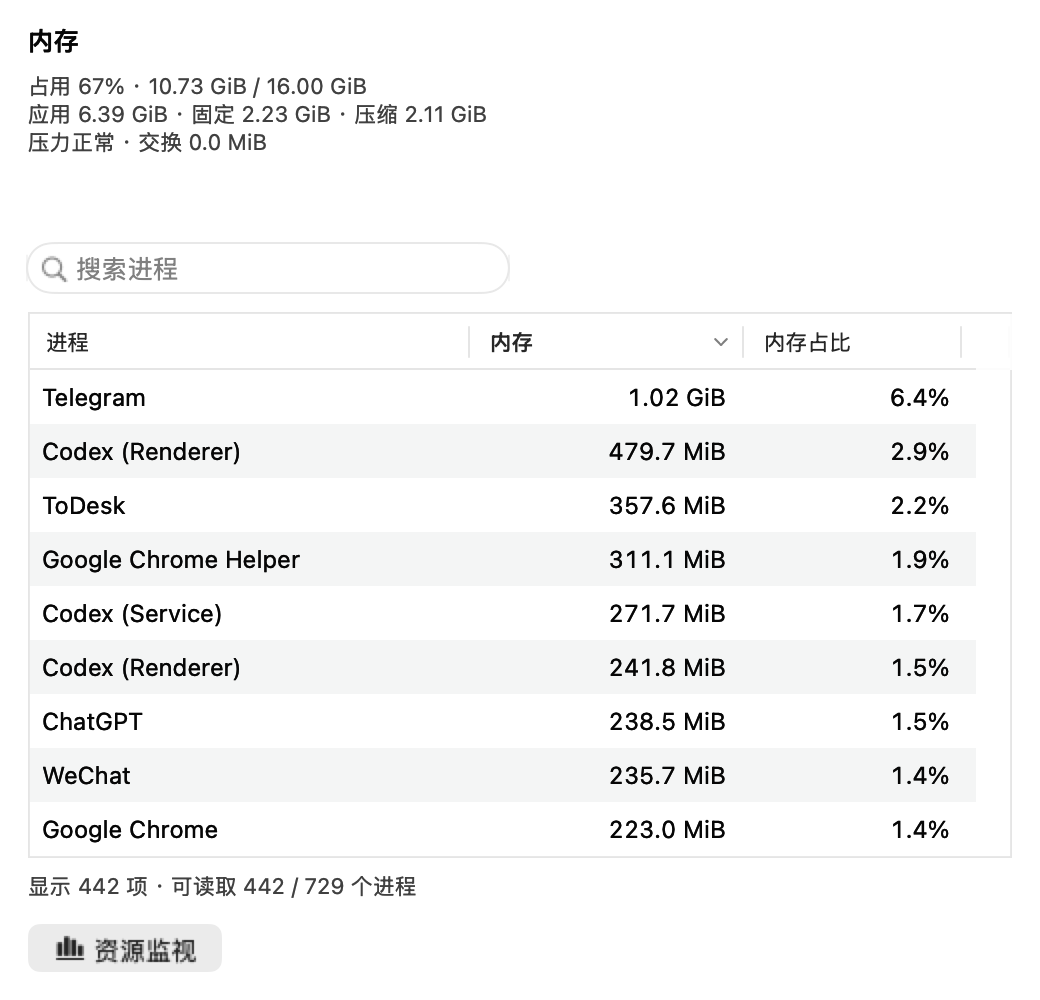
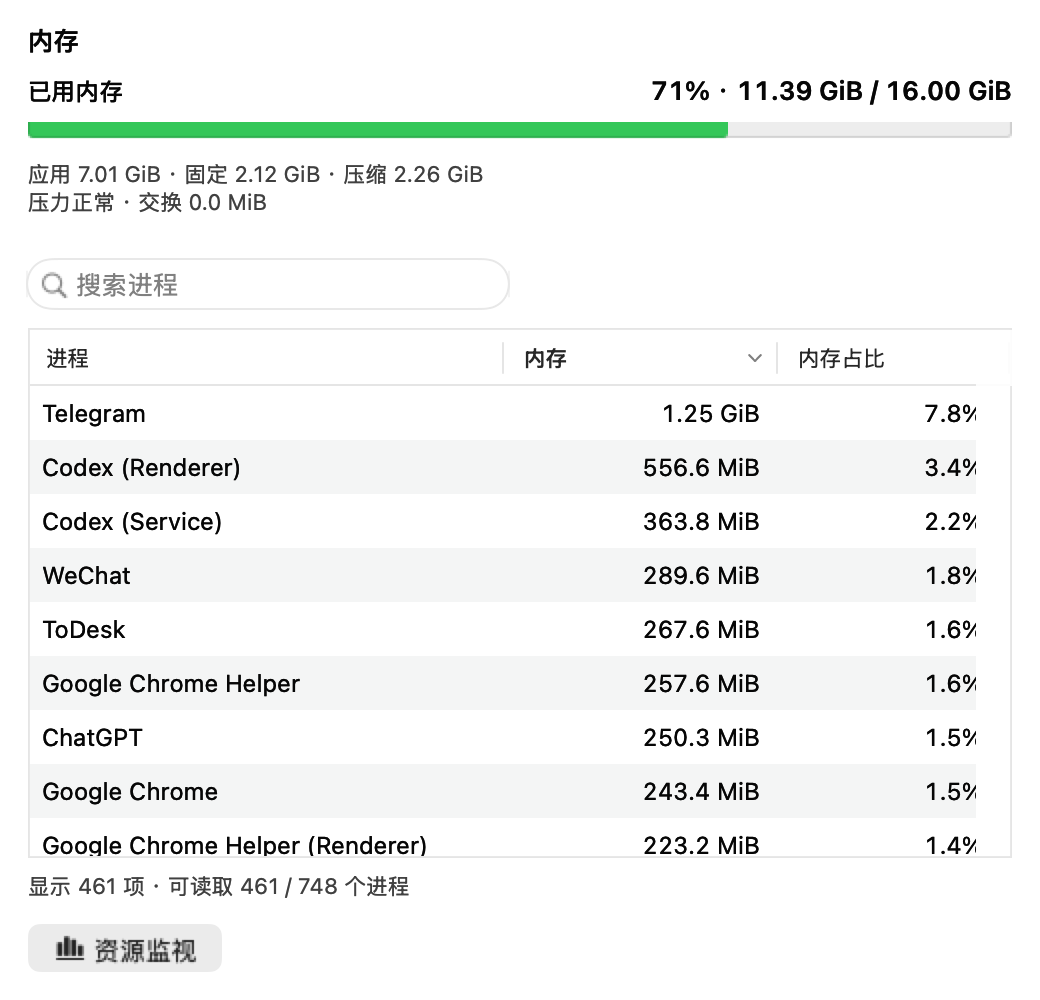
Add memory disk battery and watt gauges for v3.4.0

diff --git a/ResourceDetailsView.swift b/ResourceDetailsView.swift
@@ -12,6 +12,150 @@ func memorySize(_ bytes: Double) -> String {
     bytes >= 1_073_741_824 ? String(format: "%.2f GiB", bytes / 1_073_741_824) : String(format: "%.1f MiB", bytes / 1_048_576)
 }
 
+struct PowerScale {
+    private(set) var maximum = 20.0
+    mutating func include(_ watts: Double?) {
+        guard let watts, watts.isFinite, watts >= 0 else { return }
+        // Only expand the scale so a falling reading never makes the bar look fuller.
+        maximum = max(maximum, [20, 50, 100, 200, 500, 1000].first { $0 >= watts } ?? ceil(watts / 1000) * 1000)
+    }
+}
+
+final class MetricBar: NSLevelIndicator {
+    init(color: NSColor) {
+        super.init(frame: .zero)
+        levelIndicatorStyle = .continuousCapacity; isEditable = false; drawsTieredCapacityLevels = false
+        fillColor = color; warningFillColor = color; criticalFillColor = color
+        update(nil)
+    }
+    required init?(coder: NSCoder) { fatalError() }
+    func update(_ reading: Double?, maximum: Double = 100, color: NSColor? = nil, description: String = "暂无数据") {
+        maxValue = maximum.isFinite && maximum > 0 ? maximum : 100
+        minValue = 0; warningValue = maxValue; criticalValue = maxValue
+        if let color { fillColor = color; warningFillColor = color; criticalFillColor = color }
+        let valid = reading.flatMap { $0.isFinite && $0 >= 0 ? $0 : nil }
+        isEnabled = valid != nil; doubleValue = min(maxValue, valid ?? 0)
+        toolTip = description; setAccessibilityValue(description)
+    }
+}
+
+final class MetricGaugeView: NSView {
+    let bar: MetricBar
+    private let value = NSTextField(labelWithString: "--")
+    private let maximumLabel = NSTextField(labelWithString: "")
+    private let showsScale: Bool
+    init(title: String, color: NSColor, showsScale: Bool = false) {
+        self.showsScale = showsScale; bar = MetricBar(color: color)
+        super.init(frame: .zero)
+        let label = NSTextField(labelWithString: title)
+        label.font = .systemFont(ofSize: 12, weight: .medium)
+        value.font = .monospacedDigitSystemFont(ofSize: 13, weight: .semibold); value.alignment = .right
+        bar.setAccessibilityLabel(title)
+        for view in [label, value, bar] { view.translatesAutoresizingMaskIntoConstraints = false; addSubview(view) }
+        NSLayoutConstraint.activate([
+            heightAnchor.constraint(equalToConstant: showsScale ? 52 : 38),
+            label.leadingAnchor.constraint(equalTo: leadingAnchor), label.topAnchor.constraint(equalTo: topAnchor),
+            value.trailingAnchor.constraint(equalTo: trailingAnchor), value.firstBaselineAnchor.constraint(equalTo: label.firstBaselineAnchor),
+            value.leadingAnchor.constraint(greaterThanOrEqualTo: label.trailingAnchor, constant: 12),
+            bar.leadingAnchor.constraint(equalTo: leadingAnchor), bar.trailingAnchor.constraint(equalTo: trailingAnchor),
+            bar.topAnchor.constraint(equalTo: topAnchor, constant: 23), bar.heightAnchor.constraint(equalToConstant: 8)
+        ])
+        if showsScale {
+            let minimumLabel = NSTextField(labelWithString: "0 W")
+            maximumLabel.alignment = .right
+            for field in [minimumLabel, maximumLabel] {
+                field.font = .monospacedDigitSystemFont(ofSize: 10, weight: .regular); field.textColor = .secondaryLabelColor
+                field.translatesAutoresizingMaskIntoConstraints = false; addSubview(field)
+                field.topAnchor.constraint(equalTo: bar.bottomAnchor, constant: 3).isActive = true
+            }
+            minimumLabel.leadingAnchor.constraint(equalTo: leadingAnchor).isActive = true
+            maximumLabel.trailingAnchor.constraint(equalTo: trailingAnchor).isActive = true
+        }
+    }
+    required init?(coder: NSCoder) { fatalError() }
+    func update(_ reading: Double?, text: String, maximum: Double = 100, color: NSColor? = nil) {
+        value.stringValue = text
+        bar.update(reading, maximum: maximum, color: color, description: text + (showsScale ? String(format: "，刻度 0 至 %.0f W", maximum) : ""))
+        if showsScale { maximumLabel.stringValue = String(format: "%.0f W", maximum) }
+    }
+}
+
+final class MetricSummaryView: NSView {
+    let primary: MetricGaugeView
+    let power: MetricGaugeView?
+    private let detail = NSTextField(wrappingLabelWithString: "等待采样")
+    private let kind: StatusDetail
+    private let compact: Bool
+    private var powerScale = PowerScale()
+    var preferredHeight: CGFloat {
+        switch kind { case .memory: return 82; case .disk: return 74; default: return compact ? 148 : 102 }
+    }
+    init(kind: StatusDetail, compact: Bool = false) {
+        self.kind = kind; self.compact = compact
+        switch kind {
+        case .memory: primary = MetricGaugeView(title: "已用内存", color: .systemGreen)
+        case .disk: primary = MetricGaugeView(title: "已用空间", color: .systemOrange)
+        default: primary = MetricGaugeView(title: "电池电量", color: .systemTeal)
+        }
+        power = kind == .power || kind == .battery ? MetricGaugeView(title: "供电功率", color: .systemPink, showsScale: true) : nil
+        super.init(frame: .zero)
+        detail.font = .systemFont(ofSize: 11); detail.textColor = .secondaryLabelColor
+        for view in [primary, detail] { view.translatesAutoresizingMaskIntoConstraints = false; addSubview(view) }
+        NSLayoutConstraint.activate([
+            primary.leadingAnchor.constraint(equalTo: leadingAnchor), primary.topAnchor.constraint(equalTo: topAnchor),
+            detail.leadingAnchor.constraint(equalTo: leadingAnchor), detail.trailingAnchor.constraint(equalTo: trailingAnchor), detail.bottomAnchor.constraint(equalTo: bottomAnchor)
+        ])
+        if let power {
+            power.translatesAutoresizingMaskIntoConstraints = false; addSubview(power)
+            power.trailingAnchor.constraint(equalTo: trailingAnchor).isActive = true
+            if compact {
+                primary.trailingAnchor.constraint(equalTo: trailingAnchor).isActive = true
+                power.leadingAnchor.constraint(equalTo: leadingAnchor).isActive = true
+                power.topAnchor.constraint(equalTo: primary.bottomAnchor, constant: 6).isActive = true
+            } else {
+                primary.widthAnchor.constraint(equalTo: widthAnchor, multiplier: 0.5, constant: -12).isActive = true
+                power.leadingAnchor.constraint(equalTo: primary.trailingAnchor, constant: 24).isActive = true
+                power.topAnchor.constraint(equalTo: topAnchor).isActive = true
+            }
+            detail.topAnchor.constraint(equalTo: power.bottomAnchor, constant: 6).isActive = true
+        } else {
+            primary.trailingAnchor.constraint(equalTo: trailingAnchor).isActive = true
+            detail.topAnchor.constraint(equalTo: primary.bottomAnchor, constant: 4).isActive = true
+        }
+        update(nil, details: nil)
+    }
+    required init?(coder: NSCoder) { fatalError() }
+    func update(_ snapshot: MetricsSnapshot?, details: DetailedSnapshot?) {
+        switch kind {
+        case .memory:
+            if let memory = snapshot?.memory, memory.total > 0 {
+                let color: NSColor = memory.pressure == 4 ? .systemRed : (memory.pressure == 2 ? .systemOrange : .systemGreen)
+                primary.update(memory.percent, text: "\(MenuBarText.percent(memory.percent)) · \(memorySize(memory.occupied)) / \(memorySize(memory.total))", color: color)
+                detail.stringValue = "应用 \(memory.application.map(memorySize) ?? "--") · 固定 \(memory.wired.map(memorySize) ?? "--") · 压缩 \(memorySize(memory.compressed))\n\(memory.pressureLabel) · 交换 \(memory.swap.map(memorySize) ?? "--")"
+            } else {
+                primary.update(nil, text: "--"); detail.stringValue = "等待内存采样"
+            }
+        case .disk:
+            if let disk = snapshot?.disk, disk.total > 0 {
+                primary.update(disk.percent, text: MenuBarText.percent(disk.percent))
+                detail.stringValue = String(format: "已用 %.1f GB / 总容量 %.1f GB · 可用 %.1f GB", disk.used / 1e9, disk.total / 1e9, disk.free / 1e9)
+            } else {
+                primary.update(nil, text: "--"); detail.stringValue = "等待磁盘采样"
+            }
+        default:
+            let battery = details?.battery
+            primary.update(battery?.percent, text: battery.map { MenuBarText.percent($0.percent) } ?? (details == nil ? "--" : "无电池"), color: (battery?.percent ?? 100) <= 20 ? .systemRed : .systemTeal)
+            let watts = snapshot.flatMap(MenuBarText.freshPower)?.watts
+            powerScale.include(watts)
+            power?.update(watts, text: watts.map { String(format: "%.1f W", $0) } ?? "暂无有效读数", maximum: powerScale.maximum)
+            let batteryStatus = details == nil ? "正在读取电池信息" : (battery?.statusSummary ?? "无内置电池 · 外接电源")
+            let energy = details?.energyAvailable == true ? "进程 CPU 能耗为估算值，不含 GPU、磁盘及显示器。" : "当前系统未提供进程 CPU 能耗数据。"
+            detail.stringValue = "\(batteryStatus)\n\(energy)"
+        }
+        detail.toolTip = detail.stringValue
+    }
+}
+
 final class CoreUsageView: NSView {
     private(set) var values: [Double?] = []
     override var isFlipped: Bool { true }
@@ -349,8 +493,9 @@ final class ResourceDashboardView: NSView, NSTabViewDelegate {
     let disk = DiskUsageView()
     private let configuration: ResourceMonitorContentView
     private let cpuSummary = NSTextField(labelWithString: "等待 CPU 采样")
-    private let memorySummary = NSTextField(wrappingLabelWithString: "等待内存采样")
-    private let energySummary = NSTextField(wrappingLabelWithString: "等待电池信息")
+    private let memorySummary = MetricSummaryView(kind: .memory)
+    private let diskSummary = MetricSummaryView(kind: .disk)
+    private let energySummary = MetricSummaryView(kind: .battery)
     private var sample: MetricsSnapshot?
     private var details: DetailedSnapshot?
 
@@ -374,11 +519,11 @@ final class ResourceDashboardView: NSView, NSTabViewDelegate {
         ])
         addTab("总览与设置", view: overview)
         addTab("CPU", view: page(header: cpuSummary, height: 24, body: cpuTable))
-        addTab("内存", view: page(header: memorySummary, height: 48, body: memoryTable))
-        let diskPage = page(header: NSTextField(labelWithString: "目录容量"), height: 20, body: disk)
+        addTab("内存", view: page(header: memorySummary, height: memorySummary.preferredHeight, body: memoryTable))
+        let diskPage = page(header: diskSummary, height: diskSummary.preferredHeight, body: disk)
         addTab("磁盘", view: diskPage)
-        addTab("电池与能耗", view: page(header: energySummary, height: 64, body: energyTable))
-        for label in [cpuSummary, memorySummary, energySummary] { label.font = .systemFont(ofSize: 12); label.textColor = .secondaryLabelColor }
+        addTab("电池与能耗", view: page(header: energySummary, height: energySummary.preferredHeight, body: energyTable))
+        cpuSummary.font = .systemFont(ofSize: 12); cpuSummary.textColor = .secondaryLabelColor
     }
     required init?(coder: NSCoder) { fatalError() }
     @objc private func selectPage() { tabs.selectTabViewItem(at: navigation.selectedSegment) }
@@ -403,12 +548,6 @@ final class ResourceDashboardView: NSView, NSTabViewDelegate {
     }
     private func updateSummaries() {
         cpuSummary.stringValue = "CPU 总利用率 \(MenuBarText.percent(sample?.cpu))"
-        if let memory = sample?.memory {
-            memorySummary.stringValue = "内存 \(MenuBarText.percent(memory.percent)) · 已用 \(memorySize(memory.occupied)) / \(memorySize(memory.total)) · \(memory.pressureLabel)\n应用 \(memorySize(memory.application ?? 0)) · 固定 \(memorySize(memory.wired ?? 0)) · 压缩 \(memorySize(memory.compressed)) · 交换 \(memorySize(memory.swap ?? 0))"
-        }
-        let battery = details == nil ? "正在读取电池信息" : (details?.battery?.summary ?? "无内置电池 · 外接电源")
-        let watts = sample.flatMap(MenuBarText.freshPower).map { String(format: "供电侧 %.1f W", $0.watts) } ?? "供电功率暂无数据"
-        let energy = details?.energyAvailable == true ? "进程 CPU 能耗估算，不含 GPU、磁盘及显示器。" : "当前系统未提供进程能耗数据，可在 CPU 栏查看活跃进程。"
-        energySummary.stringValue = "\(battery)\n\(watts)\n\(energy)"
+        for view in [memorySummary, diskSummary, energySummary] { view.update(sample, details: details) }
     }
 }

diff --git a/StatusDetailView.swift b/StatusDetailView.swift
@@ -33,12 +33,14 @@ final class StatusDetailView: NSView {
     private(set) var processes: ProcessTableView?
     private let title = NSTextField(labelWithString: "")
     private let summary = NSTextField(wrappingLabelWithString: "等待采样")
+    private let metricSummary: MetricSummaryView?
     private var snapshot: MetricsSnapshot?
     private var details: DetailedSnapshot?
     var onOpenMonitor: ((Int) -> Void)?
 
     init(kind: StatusDetail) {
         self.kind = kind
+        metricSummary = kind == .cpu ? nil : MetricSummaryView(kind: kind, compact: true)
         super.init(frame: NSRect(x: 0, y: 0, width: 520, height: 500))
         title.stringValue = kind.title
         title.font = .systemFont(ofSize: 13, weight: .semibold)
@@ -47,11 +49,12 @@ final class StatusDetailView: NSView {
         let open = NSButton(title: "资源监视", target: self, action: #selector(openMonitor))
         open.image = NSImage(systemSymbolName: "chart.bar.xaxis", accessibilityDescription: nil)
         open.imagePosition = .imageLeading; open.bezelStyle = .rounded
-        for view in [title, summary, open] { view.translatesAutoresizingMaskIntoConstraints = false; addSubview(view) }
+        let header: NSView = metricSummary ?? summary
+        for view in [title, header, open] { view.translatesAutoresizingMaskIntoConstraints = false; addSubview(view) }
         NSLayoutConstraint.activate([
             title.leadingAnchor.constraint(equalTo: leadingAnchor, constant: 14), title.topAnchor.constraint(equalTo: topAnchor, constant: 12),
-            summary.leadingAnchor.constraint(equalTo: title.leadingAnchor), summary.trailingAnchor.constraint(equalTo: trailingAnchor, constant: -14),
-            summary.topAnchor.constraint(equalTo: title.bottomAnchor, constant: 8), summary.heightAnchor.constraint(equalToConstant: kind == .cpu ? 28 : 76),
+            header.leadingAnchor.constraint(equalTo: title.leadingAnchor), header.trailingAnchor.constraint(equalTo: trailingAnchor, constant: -14),
+            header.topAnchor.constraint(equalTo: title.bottomAnchor, constant: 10), header.heightAnchor.constraint(equalToConstant: metricSummary?.preferredHeight ?? 28),
             open.leadingAnchor.constraint(equalTo: title.leadingAnchor), open.bottomAnchor.constraint(equalTo: bottomAnchor, constant: -14)
         ])
         let body: NSView
@@ -62,7 +65,7 @@ final class StatusDetailView: NSView {
             processes = table; body = table
         }
         body.translatesAutoresizingMaskIntoConstraints = false; addSubview(body)
-        var bodyTop = summary.bottomAnchor
+        var bodyTop = header.bottomAnchor
         if kind == .cpu {
             let scroll = NSScrollView()
             scroll.drawsBackground = false; scroll.hasVerticalScroller = true
@@ -70,14 +73,14 @@ final class StatusDetailView: NSView {
             scroll.translatesAutoresizingMaskIntoConstraints = false; addSubview(scroll)
             cores.update(Array(repeating: nil, count: ProcessInfo.processInfo.processorCount))
             NSLayoutConstraint.activate([
-                scroll.leadingAnchor.constraint(equalTo: summary.leadingAnchor), scroll.trailingAnchor.constraint(equalTo: summary.trailingAnchor),
+                scroll.leadingAnchor.constraint(equalTo: header.leadingAnchor), scroll.trailingAnchor.constraint(equalTo: header.trailingAnchor),
                 scroll.topAnchor.constraint(equalTo: summary.bottomAnchor), scroll.heightAnchor.constraint(equalToConstant: 128),
                 cores.leadingAnchor.constraint(equalTo: scroll.contentView.leadingAnchor), cores.trailingAnchor.constraint(equalTo: scroll.contentView.trailingAnchor), cores.topAnchor.constraint(equalTo: scroll.contentView.topAnchor)
             ])
             bodyTop = scroll.bottomAnchor
         }
         NSLayoutConstraint.activate([
-            body.leadingAnchor.constraint(equalTo: summary.leadingAnchor), body.trailingAnchor.constraint(equalTo: summary.trailingAnchor),
+            body.leadingAnchor.constraint(equalTo: header.leadingAnchor), body.trailingAnchor.constraint(equalTo: header.trailingAnchor),
             body.topAnchor.constraint(equalTo: bodyTop, constant: 10), body.bottomAnchor.constraint(equalTo: open.topAnchor, constant: -12)
         ])
     }
@@ -95,22 +98,11 @@ final class StatusDetailView: NSView {
         refresh()
     }
     private func refresh() {
-        switch kind {
-        case .cpu:
+        if kind == .cpu {
             title.stringValue = "CPU · \(ProcessInfo.processInfo.processorCount) 个逻辑核心"
             summary.stringValue = "总利用率 \(MenuBarText.percent(snapshot?.cpu))"
-        case .memory:
-            if let memory = snapshot?.memory {
-                summary.stringValue = "占用 \(MenuBarText.percent(memory.percent)) · \(memorySize(memory.occupied)) / \(memorySize(memory.total))\n应用 \(memorySize(memory.application ?? 0)) · 固定 \(memorySize(memory.wired ?? 0)) · 压缩 \(memorySize(memory.compressed))\n\(memory.pressureLabel) · 交换 \(memorySize(memory.swap ?? 0))"
-            } else { summary.stringValue = "等待内存采样" }
-        case .disk:
-            summary.stringValue = snapshot?.disk.map { String(format: "占用 %.0f%% · 总容量 %.1f GB\n已用 %.1f GB · 可用 %.1f GB", $0.percent, $0.total / 1e9, ($0.total - $0.free) / 1e9, $0.free / 1e9) } ?? "等待磁盘采样"
-        case .power, .battery:
-            let battery = details == nil ? "正在读取电池信息" : (details?.battery?.summary ?? "无内置电池 · 外接电源")
-            let power = snapshot.flatMap(MenuBarText.freshPower).map { String(format: "供电功率 %.1f W", $0.watts) } ?? "供电功率暂无有效读数"
-            let energy = details?.energyAvailable == true ? "CPU 能耗估算，不含 GPU、磁盘及显示器。" : "当前系统未提供进程 CPU 能耗数据。"
-            summary.stringValue = "\(battery)\n\(power)\n\(energy)"
         }
+        metricSummary?.update(snapshot, details: details)
         if window != nil, let details { processes?.update(details) }
     }
     @objc private func openMonitor() { onOpenMonitor?(kind.page) }

diff --git a/MenuBarMonitor.swift b/MenuBarMonitor.swift
@@ -60,8 +60,10 @@ enum MenuBarText {
 final class MenuMetricRow: NSView {
     private let value = NSTextField(labelWithString: "--")
     private let detail = NSTextField(labelWithString: "等待采样")
+    private let bar: MetricBar?
 
-    init(title: String, symbol: String, color: NSColor) {
+    init(title: String, symbol: String, color: NSColor, showsBar: Bool = true) {
+        bar = showsBar ? MetricBar(color: color) : nil
         super.init(frame: .zero)
         let icon = NSImageView(image: NSImage(systemSymbolName: symbol, accessibilityDescription: title)!)
         icon.contentTintColor = color
@@ -91,24 +93,35 @@ final class MenuMetricRow: NSView {
             detail.trailingAnchor.constraint(equalTo: trailingAnchor),
             detail.topAnchor.constraint(equalTo: topAnchor, constant: 23)
         ])
+        if let bar {
+            bar.translatesAutoresizingMaskIntoConstraints = false; addSubview(bar)
+            bar.setAccessibilityLabel(title)
+            NSLayoutConstraint.activate([
+                bar.leadingAnchor.constraint(equalTo: label.leadingAnchor), bar.trailingAnchor.constraint(equalTo: trailingAnchor),
+                bar.topAnchor.constraint(equalTo: topAnchor, constant: 42), bar.heightAnchor.constraint(equalToConstant: 6)
+            ])
+        }
     }
 
     required init?(coder: NSCoder) { fatalError("init(coder:) has not been implemented") }
 
-    func update(value: String, detail: String) {
+    func update(value: String, detail: String, reading: Double? = nil, maximum: Double = 100, color: NSColor? = nil) {
         self.value.stringValue = value
         self.detail.stringValue = detail
+        self.detail.toolTip = detail
+        bar?.update(reading, maximum: maximum, color: color, description: value + "，" + detail)
     }
 }
 
 final class MenuBarContentView: NSView {
-    private let cpu = MenuMetricRow(title: "CPU", symbol: "cpu", color: .systemCyan)
+    private let cpu = MenuMetricRow(title: "CPU", symbol: "cpu", color: .systemCyan, showsBar: false)
     private let memory = MenuMetricRow(title: "内存", symbol: "memorychip", color: .systemGreen)
     private let disk = MenuMetricRow(title: "磁盘", symbol: "internaldrive", color: .systemOrange)
     private let power = MenuMetricRow(title: "功率", symbol: "bolt.fill", color: .systemPink)
     private let battery = MenuMetricRow(title: "电池", symbol: "battery.100percent", color: .systemTeal)
     private let pressure = NSTextField(labelWithString: "压力未知")
     private let timestamp = NSTextField(labelWithString: "--:--:--")
+    private var powerScale = PowerScale()
     private let timeFormatter: DateFormatter = {
         let formatter = DateFormatter()
         formatter.dateFormat = "HH:mm:ss"
@@ -160,20 +173,22 @@ final class MenuBarContentView: NSView {
         if let minutes = metric.minutesRemaining {
             status += " · \(metric.charging ? "充满约需" : "预计剩余") \(minutes / 60) 小时 \(minutes % 60) 分钟"
         }
-        battery.update(value: MenuBarText.percent(metric.percent), detail: status)
+        battery.update(value: MenuBarText.percent(metric.percent), detail: status, reading: metric.percent, color: (metric.percent ?? 100) <= 20 ? .systemRed : .systemTeal)
     }
 
     func update(_ snapshot: MetricsSnapshot) {
         cpu.update(value: MenuBarText.percent(snapshot.cpu), detail: "\(ProcessInfo.processInfo.processorCount) 核")
         memory.update(value: MenuBarText.percent(snapshot.memory?.percent), detail: snapshot.memory.map {
             String(format: "已用 %.1f / %.0f GiB · 压缩 %.1f GiB", $0.occupied / 1_073_741_824, $0.total / 1_073_741_824, $0.compressed / 1_073_741_824)
-        } ?? "暂无数据")
+        } ?? "暂无数据", reading: snapshot.memory?.percent, color: snapshot.memory?.pressure == 4 ? .systemRed : (snapshot.memory?.pressure == 2 ? .systemOrange : .systemGreen))
         disk.update(value: MenuBarText.percent(snapshot.disk?.percent), detail: snapshot.disk.map {
             String(format: "可用 %.0f / %.0f GB", $0.free / 1e9, $0.total / 1e9)
-        } ?? "暂无数据")
+        } ?? "暂无数据", reading: snapshot.disk?.percent)
         let currentPower = MenuBarText.freshPower(snapshot)
+        powerScale.include(currentPower?.watts)
         power.update(value: currentPower.map { String(format: "%.1f W", $0.watts) } ?? "--",
-                     detail: currentPower == nil ? "暂无有效读数" : "供电侧估算")
+                     detail: currentPower == nil ? "暂无有效读数" : String(format: "供电侧估算 · 刻度 0–%.0f W", powerScale.maximum),
+                     reading: currentPower?.watts, maximum: powerScale.maximum)
         var pressureText = snapshot.memory?.pressureLabel ?? "压力未知"
         if let swap = snapshot.memory?.swap {
             pressureText += String(format: " · 交换空间 %.1f GiB", swap / 1_073_741_824)

diff --git a/DetailedMetrics.swift b/DetailedMetrics.swift
@@ -85,7 +85,11 @@ struct BatteryMetric {
     }
 
     var summary: String {
-        var parts = ["电池 \(MenuBarText.percent(percent))", charging ? "正在充电" : (external ? "外接电源" : "电池供电")]
+        "电池 \(MenuBarText.percent(percent)) · \(statusSummary)"
+    }
+
+    var statusSummary: String {
+        var parts = [charging ? "正在充电" : (external ? "外接电源" : "电池供电")]
         if let minutesRemaining { parts.append("\(charging ? "充满约需" : "预计剩余") \(minutesRemaining / 60) 小时 \(minutesRemaining % 60) 分钟") }
         if let health {
             let labels = ["Good": "正常", "Fair": "一般", "Poor": "较差", "Check Battery": "建议检修"]

diff --git a/README.md b/README.md
@@ -2,13 +2,13 @@
 
 原生 macOS 资源监视、可选菜单栏监控与桌面小组件。查看各核心 CPU、进程内存、目录容量、电池与进程 CPU 能耗，并由用户选择退出进程。资源监视使用普通窗口，不会置顶。
 
-当前版本：**3.3.0**。安装后的应用和小组件名称均为 **“系统状态”**。
+当前版本：**3.4.0**。安装后的应用和小组件名称均为 **“系统状态”**。
 
 ## 下载安装
 
-**[下载安装包：MacPulse Widget 3.3.0（M 系列 Mac）](https://github.com/qwer8856/MACPulse-widget/releases/download/v3.3.0/MACPulse-Widget-v3.3.0-macOS-arm64.zip)**
+**[下载安装包：MacPulse Widget 3.4.0（M 系列 Mac）](https://github.com/qwer8856/MACPulse-widget/releases/download/v3.4.0/MACPulse-Widget-v3.4.0-macOS-arm64.zip)**
 
-[版本发布页与校验文件](https://github.com/qwer8856/MACPulse-widget/releases/tag/v3.3.0)
+[版本发布页与校验文件](https://github.com/qwer8856/MACPulse-widget/releases/tag/v3.4.0)
 
 需要 Apple Silicon Mac（M 系列）和 macOS 14 或更新版本。
 
@@ -33,6 +33,8 @@
 | 电池与能耗 | 电池电量、供电与充电状态、系统可提供的预计剩余时间和健康状态，按 CPU 能耗估算降序排列进程 |
 
 资源窗口不显示各核心 CPU 图表；核心数量与各核心占用保留在菜单栏的 CPU 子菜单中。窗口采用紧凑布局，支持调整大小。
+
+内存、磁盘、电池和功率在资源总览、对应详情页及菜单栏子菜单中使用进度条并保留数值。内存和磁盘表示已用比例，电池表示剩余电量。功率条以 W 为单位，从 0–20 W 起步，超过刻度时向上扩展，运行期间不随读数下降而缩小；刻度上限不是设备额定功率，也不代表“功率利用率”。无电池、等待采样或功率读数过期时显示灰色条及状态文字。
 
 进程列表支持按名称或 PID 搜索，点击列标题可切换排序。系统可能限制部分进程的读取权限，底部显示可读取进程数量。
 
